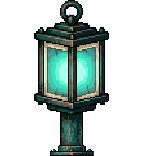
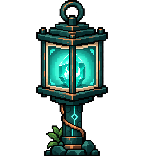
feat(decor): instala 20 decoracoes novas, lanterna refeita e icone prism (REGISTRO §406)
Ruinas (4) e elemento (16) ganham arte em src/assets/decor/<id>.webp pela caixa do
espaco; a lanterna troca a arte no mesmo id; prism.webp 128x128 substitui o emoji.
Instalador tools/instalar-decor-elementos.py reusa o do §398; guard decorElementos.test.ts.

Changed region(s): [[0.2222, 0.0, 0.7778, 1.0]]

diff --git a/src/assets/decorElementos.test.ts b/src/assets/decorElementos.test.ts
@@ -1,0 +1,97 @@
+/**
+ * As 20 decorações sem arte (4 ruínas + 16 de elemento), a lanterna refeita e o ícone `prism`
+ * (REGISTRO §406, P9 opção (a)). Guard do que tools/instalar-decor-elementos.py promete.
+ */
+import { describe, it, expect } from 'vitest';
+import fs from 'node:fs';
+import path from 'node:path';
+import sharp from 'sharp';
+import { COSMETICOS_PLANEJADOS, COSMETICOS_NOVOS, DECOR_ART_SCALE } from '../utils/cosmeticosNovos';
+import { DECOR_ART } from '../utils/decorArt';
+import { materialIconSrc } from '../utils/materialIcons';
+import { ALL_SHOP_ITEMS } from '../utils/shop';
+
+const DIR = path.resolve(__dirname, 'decor');
+const NOVAS = [
+  'furn-ruinas-carro-engolido', 'furn-ruinas-placa-torta', 'furn-ruinas-asfalto-rachado', 'furn-ruinas-fiacao-com-musgo',
+  ...['sombra', 'luz', 'vileza', 'morte', 'vida', 'vigor', 'marcial', 'tempo', 'som', 'gravidade', 'espaco', 'fada', 'industrial', 'planta', 'arcano', 'eletricidade']
+    .map(e => `furn-el-${e}`),
+];
+const kb = (f: string) => fs.statSync(f).size;
+
+describe('20 decorações novas, lanterna refeita e prism', () => {
+  it('são 20 ids únicos, cada um peça do catálogo planejado, com arte registrada em DECOR_ART', () => {
+    expect(new Set(NOVAS).size).toBe(20);
+    for (const id of NOVAS) {
+      const c = COSMETICOS_PLANEJADOS.find(p => p.id === id);
+      expect(c, id).toBeDefined();
+      expect(c!.kind, id).toBe('furn');
+      expect(COSMETICOS_NOVOS.some(p => p.id === id), `${id} entra na loja`).toBe(true);
+      expect(DECOR_ART[id], id).toBeTruthy();
+    }
+  });
+
+  it('cada peça é a caixa do espaço × escala (3; 2 no tapete), com alfa real e teto de bytes', async () => {
+    let total = 0;
+    for (const id of NOVAS) {
+      const c = COSMETICOS_PLANEJADOS.find(p => p.id === id)!;
+      const arq = path.join(DIR, `${id}.webp`);
+      const m = await sharp(arq).metadata();
+      const k = DECOR_ART_SCALE(c.slot!);
+      expect([m.format, m.width, m.height], id).toEqual(['webp', c.box!.w * k, c.box!.h * k]);
+      expect(m.hasAlpha, id).toBe(true);
+      const a = (await sharp(arq).stats()).channels[3];
+      expect(a.min, `${id}: sem pixel transparente`).toBe(0);
+      expect(a.max, `${id}: sem pixel opaco`).toBeGreaterThan(200);
+      expect(kb(arq), id).toBeLessThanOrEqual(60 * 1024);
+      total += kb(arq);
+    }
+    expect(total).toBeLessThanOrEqual(700 * 1024); // ~0,43 MB hoje
+  }, 60_000);
+
+  it('slots seguem o código: asfalto é tapete (13:2), fiação é parede, elementos alternam esquerdo/direito', () => {
+    const slot = (id: string) => COSMETICOS_PLANEJADOS.find(p => p.id === id)!.slot;
+    expect(slot('furn-ruinas-asfalto-rachado')).toBe('rug');
+    expect(slot('furn-ruinas-fiacao-com-musgo')).toBe('wall');
+    expect(slot('furn-ruinas-carro-engolido')).toBe('floor-left');
+    expect(slot('furn-ruinas-placa-torta')).toBe('floor-right');
+  });
+
+  it('a lanterna troca a arte no mesmo id: 144×156 (canto direito ×3), PNG com alfa real, mesmo item da loja', async () => {
+    const item = ALL_SHOP_ITEMS.find(i => i.id === 'furn-lantern')!;
+    expect([item.slot, item.price]).toEqual(['floor-right', 330]);
+    const arq = path.join(DIR, 'furn-lantern.png');
+    const m = await sharp(arq).metadata();
+    expect([m.width, m.height, m.hasAlpha]).toEqual([144, 156, true]);
+    expect((await sharp(arq).stats()).channels[3].min).toBe(0);
+    expect(kb(arq)).toBeLessThanOrEqual(400 * 1024);
+    expect(DECOR_ART['furn-lantern']).toBeTruthy();
+  });
+
+  it('nenhum furn-*.webp órfão: todo arquivo é peça do catálogo planejado', () => {
+    const ids = new Set(COSMETICOS_PLANEJADOS.map(c => c.id));
+    const orfas = fs.readdirSync(DIR).filter(f => /^furn-.*\.webp$/.test(f)).map(f => f.slice(0, -5)).filter(id => !ids.has(id));
+    expect(orfas).toEqual([]);
+  });
+
+  it('o catálogo planejado segue com os mesmos 108 ids (nenhum preço, slot ou id inventado)', () => {
+    expect(COSMETICOS_PLANEJADOS).toHaveLength(108);
+    expect(COSMETICOS_PLANEJADOS.filter(c => c.kind === 'furn')).toHaveLength(44);
+    expect(COSMETICOS_PLANEJADOS.find(c => c.id === 'furn-el-luz')!.price).toBe(500);
+  });
+
+  it('prism: 128×128 com alfa real e o material resolve a imagem em vez do emoji', async () => {
+    const arq = path.resolve(__dirname, 'soulmon/icons/materiais/prism.webp');
+    const m = await sharp(arq).metadata();
+    expect([m.format, m.width, m.height, m.hasAlpha]).toEqual(['webp', 128, 128, true]);
+    expect(kb(arq)).toBeLessThanOrEqual(30 * 1024);
+    expect(materialIconSrc('prism')).toBeTruthy();
+  });
+
+  it('o instalador é idempotente: lê só o PNG canônico da origem, nunca o arquivo já instalado', () => {
+    const f = fs.readFileSync(path.resolve(__dirname, '../../tools/instalar-decor-elementos.py'), 'utf8');
+    expect(f).toContain("os.path.join(origem, id_ + '.png')");
+    expect(f).toMatch(/PNG canônico/);
+    expect(f).not.toMatch(/Image\.open\(out\)/);
+  });
+});

diff --git a/tools/instalar-decor-elementos.py b/tools/instalar-decor-elementos.py
@@ -1,0 +1,109 @@
+"""Instala as 20 decorações sem arte (4 ruínas + 16 de elemento), a lanterna refeita e o ícone `prism`.
+
+Uso:  python tools/instalar-decor-elementos.py [ORIGEM] [--contato ARQ.png] [--antes DIR]
+  ORIGEM  padrão E:/Soulmon-assets/_lote-15-11/chatgpt-fila  (<id>.png, alfa real, 1254²)
+
+Reusa `instalar()` de tools/instalar-decor-refeitas.py (caixa do espaço × escala, NEAREST, bbox do alfa,
+`contain`, âncora embaixo no chão e centro na parede/tapete, faixa 3:1 -> 13:2 por janela de maior alfa).
+A caixa de cada id vem de `utils/cosmeticosNovos.ts` (SLOT_FURN) e a escala de `DECOR_ART_SCALE`
+(3, e 2 no tapete); o espaço de cada id é lido do código, não repetido aqui:
+  - decoração nova  -> src/assets/decor/<id>.webp (sem perda; o glob de `cosmeticosNovos.ts` lê .webp)
+  - lanterna        -> src/assets/decor/furn-lantern.png (mesmo id e formato; `decorArt.ts` importa o PNG)
+  - prism           -> src/assets/soulmon/icons/materiais/prism.webp (128x128; `materialIcons.ts` troca o emoji)
+Idempotente: a fonte é SEMPRE o PNG canônico da origem, nunca o arquivo já instalado.
+"""
+import sys, os, re, importlib.util
+from PIL import Image
+
+AQUI = os.path.dirname(os.path.abspath(__file__))
+RAIZ = os.path.dirname(AQUI)
+spec = importlib.util.spec_from_file_location('refeitas', os.path.join(AQUI, 'instalar-decor-refeitas.py'))
+refeitas = importlib.util.module_from_spec(spec)
+spec.loader.exec_module(refeitas)
+
+LANTERNA = 'E:/Soulmon-assets/_lote-14-11/decoracao/furn-lantern.png'
+CAIXAS = {'floor-left': (56, 56), 'floor-right': (48, 52), 'rug': (104, 16), 'wall': (56, 40)}
+
+
+def ler_slots():
+    """id -> espaço, na ordem em que `cosmeticosNovos.ts` os monta (4 por tema; elementos alternam esquerdo/direito)."""
+    src = open(os.path.join(RAIZ, 'src/utils/cosmeticosNovos.ts'), encoding='utf-8').read()
+    nomes = re.search(r'const NOMES_FURN[^{]*\{(.*?)\n\};', src, re.S).group(1)
+    ids = re.findall(r"'(furn-[a-z0-9-]+)':", nomes)
+    elem = re.search(r'const ELEMENTOS[^{]*\{(.*?)\n\};', src, re.S).group(1)
+    els = re.findall(r'(\w+): \[', elem)
+    slots = {}
+    temas = {}
+    for i in ids:
+        if i.startswith('furn-el-'):
+            continue
+        temas.setdefault(i.split('-')[1], []).append(i)
+    for lista in temas.values():
+        for n, i in enumerate(lista[:4]):
+            slots[i] = ['floor-left', 'floor-right', 'rug', 'wall'][n]
+    for n, el in enumerate(els):
+        slots[f'furn-el-{el}'] = 'floor-left' if n % 2 == 0 else 'floor-right'
+    return slots
+
+
+def escala(slot):
+    return 2 if slot == 'rug' else 3
+
+
+def instalar_slot(src, slot):
+    k = refeitas.K
+    refeitas.K = escala(slot)
+    try:
+        return refeitas.instalar(src, slot, slot != 'rug' and slot != 'wall')
+    finally:
+        refeitas.K = k
+
+
+def main():
+    argv = sys.argv[1:]
+    opt = {}
+    for k in ('--contato', '--antes'):
+        if k in argv:
+            i = argv.index(k); opt[k] = argv[i + 1]; del argv[i:i + 2]
+    origem = argv[0] if argv else 'E:/Soulmon-assets/_lote-15-11/chatgpt-fila'
+    dec = os.path.join(RAIZ, 'src/assets/decor')
+    refeitas.SLOTS.update(CAIXAS)
+    ja = {f[:-5] for f in os.listdir(dec) if f.endswith('.webp')}
+    feitos, total, maior = [], 0, 0
+    for id_, slot in ler_slots().items():
+        if id_ in ja:
+            continue  # peça que já tem arte instalada não é tocada aqui
+        src = os.path.join(origem, id_ + '.png')
+        if not os.path.exists(src):
+            raise SystemExit(f'faltando: {src}')
+        tela = instalar_slot(src, slot)
+        out = os.path.join(dec, id_ + '.webp')
+        tela.save(out, 'WEBP', lossless=True, method=6)
+        tam = os.path.getsize(out)
+        total += tam; maior = max(maior, tam)
+        feitos.append((id_, tela))
+    print(f'decoracoes novas: {len(feitos)} em {dec}; {total/1024:.1f} KB; maior {maior/1024:.1f} KB')
+    lant = instalar_slot(LANTERNA, 'floor-right')
+    out = os.path.join(dec, 'furn-lantern.png')
+    lant.save(out, 'PNG', optimize=True)
+    print(f'lanterna: {os.path.getsize(out)/1024:.1f} KB')
+    feitos.append(('furn-lantern', lant))
+    icone = Image.open(os.path.join(origem, 'prism.png')).convert('RGBA')
+    icone = icone.crop(refeitas.bbox_alfa(icone))
+    lado = max(icone.size)
+    quad = Image.new('RGBA', (lado, lado), (0, 0, 0, 0))
+    quad.paste(icone, ((lado - icone.width) // 2, (lado - icone.height) // 2))
+    # margem de 5 px como os outros ícones de material (ore: caixa 5..122)
+    quad = quad.resize((118, 118), Image.LANCZOS)
+    tela = Image.new('RGBA', (128, 128), (0, 0, 0, 0))
+    tela.paste(quad, (5, 5))
+    quad = tela
+    out = os.path.join(RAIZ, 'src/assets/soulmon/icons/materiais/prism.webp')
+    quad.save(out, 'WEBP', quality=90, method=6)
+    print(f'prism: {os.path.getsize(out)/1024:.1f} KB')
+    if '--contato' in opt:
+        refeitas.contato(feitos, opt.get('--antes'), opt['--contato'])
+
+
+if __name__ == '__main__':
+    main()

diff --git a/tools/instalar-decor-refeitas.py b/tools/instalar-decor-refeitas.py
@@ -137,4 +137,5 @@ def main():
         contato(feitos, opt.get('--antes'), opt['--contato'])
 
 
-main()
+if __name__ == '__main__':
+    main()

diff --git a/docs/ASSETS-A-GERAR.md b/docs/ASSETS-A-GERAR.md
@@ -55,7 +55,7 @@ O baú da sessão de foco (`FocusBag`, com tooltip e animação de itens) mostra
 |---|---|---|---|
 | ✅ 13/11 `spark` | `src/assets/soulmon/icons/materiais/spark.webp` | Faísca | `Game item icon, a small bright four-point spark of electric yellow light, centered on a transparent background, soft dark outline, subtle highlights, hand-painted pixel-friendly style matching the other item icons of the game, at most one small discreet motif of a turquoise crystal or copper wire, no text, no decorative cog, square 1:1` |
 | ✅ 13/11 `moss` | `src/assets/soulmon/icons/materiais/moss.webp` | Musgo | `Game item icon, a tuft of soft green moss with tiny curled fronds, centered on a transparent background, soft dark outline, subtle highlights, hand-painted pixel-friendly style matching the other item icons of the game, at most one small discreet motif of a turquoise crystal or copper wire, no text, no decorative cog, square 1:1` |
-| ⏳ pendente: refazer `prism` (13/11: o instalado era um pilar de cristal com tampas de cobre, não um prisma; REPROVADO e retirado, cai no emoji) | `src/assets/soulmon/icons/materiais/prism.webp` | Prisma | `Game item icon, a faceted triangular prism crystal catching a rainbow edge of light, centered on a transparent background, soft dark outline, subtle highlights, hand-painted pixel-friendly style matching the other item icons of the game, at most one small discreet motif of a turquoise crystal or copper wire, no text, no decorative cog, square 1:1` |
+| ✅ 15/11 `prism` refeito e instalado (REGISTRO §406; 13/11: o antigo era um pilar de cristal com tampas de cobre, não um prisma) | `src/assets/soulmon/icons/materiais/prism.webp` | Prisma | `Game item icon, a faceted triangular prism crystal catching a rainbow edge of light, centered on a transparent background, soft dark outline, subtle highlights, hand-painted pixel-friendly style matching the other item icons of the game, at most one small discreet motif of a turquoise crystal or copper wire, no text, no decorative cog, square 1:1` |
 | ✅ 13/11 `pebble` | `src/assets/soulmon/icons/materiais/pebble.webp` | Seixo | `Game item icon, a smooth rounded river pebble, grey-blue with a pale vein, centered on a transparent background, soft dark outline, subtle highlights, hand-painted pixel-friendly style matching the other item icons of the game, at most one small discreet motif of a turquoise crystal or copper wire, no text, no decorative cog, square 1:1` |
 | ✅ 13/11 `ore` | `src/assets/soulmon/icons/materiais/ore.webp` | Minério | `Game item icon, a rough chunk of ore rock with a seam of teal metal, centered on a transparent background, soft dark outline, subtle highlights, hand-painted pixel-friendly style matching the other item icons of the game, at most one small discreet motif of a turquoise crystal or copper wire, no text, no decorative cog, square 1:1` |
 | ✅ 13/11 `ink` | `src/assets/soulmon/icons/materiais/ink.webp` | Tinta | `Game item icon, a small glass inkwell with a dark blue ink drop and a quill tip, centered on a transparent background, soft dark outline, subtle highlights, hand-painted pixel-friendly style matching the other item icons of the game, at most one small discreet motif of a turquoise crystal or copper wire, no text, no decorative cog, square 1:1` |
@@ -914,10 +914,10 @@ O slot já está ligado (`FEIRA_SCENE` em `src/utils/dungeonScenes.ts`, glob opc
 | `bg-ruinas-metro-esquecido` | bg | Ruínas pós-apocalípticas | abandoned subway hall flooded and full of moss and glowing fungi, light through a broken ceiling; palette: rust orange, faded olive, dust beige and toxic lime accent | 1200×648 (1,85:1), [PET-BOX] | não |
 | `frame-ruinas-concreto-e-vergalhao` | frame | Ruínas pós-apocalípticas | ring of broken concrete and rusted rebar with moss; palette: rust orange, faded olive, dust beige and toxic lime accent | 192×192 (1:1), abertura central 96 px vazia, alfa real | não |
 | `frame-ruinas-sucata-florida` | frame | Ruínas pós-apocalípticas | ring of rusted scrap reclaimed by small flowers; palette: rust orange, faded olive, dust beige and toxic lime accent | 192×192 (1:1), abertura central 96 px vazia, alfa real | não |
-| `furn-ruinas-carro-engolido` | furniture | Ruínas pós-apocalípticas | rusted small car overtaken by moss and flowers; palette: rust orange, faded olive, dust beige and toxic lime accent | 56×56 (1:1), `ground`, slot `floor-left` | não |
-| `furn-ruinas-placa-torta` | furniture | Ruínas pós-apocalípticas | bent faded road sign with vines (no readable text); palette: rust orange, faded olive, dust beige and toxic lime accent | 48×52 (~1:1), `ground`, slot `floor-right` | não |
-| `furn-ruinas-asfalto-rachado` | furniture | Ruínas pós-apocalípticas | cracked asphalt patch with grass in the cracks, shallow perspective; palette: rust orange, faded olive, dust beige and toxic lime accent | 104×16 (6,5:1), `ground-flat`, slot `rug` | não |
-| `furn-ruinas-fiacao-com-musgo` | furniture | Ruínas pós-apocalípticas | hanging old cables draped with moss and small glowing fungi; palette: rust orange, faded olive, dust beige and toxic lime accent | 56×40 (1,4:1), `hang`, slot `wall` | não |
+| ✅ 15/11 `furn-ruinas-carro-engolido` | furniture | Ruínas pós-apocalípticas | rusted small car overtaken by moss and flowers; palette: rust orange, faded olive, dust beige and toxic lime accent | 56×56 (1:1), `ground`, slot `floor-left` | não |
+| ✅ 15/11 `furn-ruinas-placa-torta` | furniture | Ruínas pós-apocalípticas | bent faded road sign with vines (no readable text); palette: rust orange, faded olive, dust beige and toxic lime accent | 48×52 (~1:1), `ground`, slot `floor-right` | não |
+| ✅ 15/11 `furn-ruinas-asfalto-rachado` | furniture | Ruínas pós-apocalípticas | cracked asphalt patch with grass in the cracks, shallow perspective; palette: rust orange, faded olive, dust beige and toxic lime accent | 104×16 (6,5:1), `ground-flat`, slot `rug` | não |
+| ✅ 15/11 `furn-ruinas-fiacao-com-musgo` | furniture | Ruínas pós-apocalípticas | hanging old cables draped with moss and small glowing fungi; palette: rust orange, faded olive, dust beige and toxic lime accent | 56×40 (1,4:1), `hang`, slot `wall` | não |
 | `bg-el-fogo` | bg | Elemento Fogo | forge of living flame in a stone hollow; palette: flame orange-red | 1200×648 (1,85:1), [PET-BOX] | **sim** (`fogo`) |
 | `frame-el-fogo` | frame | Elemento Fogo | ring of licking flames; palette: flame orange-red | 192×192 (1:1), abertura central 96 px vazia, alfa real | **sim** (`fogo`) |
 | `furn-el-fogo` | furniture | Elemento Fogo | small eternal-flame brazier of carved stone; palette: flame orange-red | 56×56 (1:1), `ground`, slot `floor-left` | **sim** (`fogo`) |
@@ -932,52 +932,52 @@ O slot já está ligado (`FEIRA_SCENE` em `src/utils/dungeonScenes.ts`, glob opc
 | `furn-el-ar` | furniture | Elemento Ar | small pinwheel of feathers on a stone post; palette: pale sky blue and white | 48×52 (~1:1), `ground`, slot `floor-right` | **sim** (`ar`) |
 | `bg-el-eletricidade` | bg | Elemento Eletricidade | storm plateau with lightning between crystal spires; palette: vivid yellow and white-violet | 1200×648 (1,85:1), [PET-BOX] | **sim** (`eletricidade`) |
 | `frame-el-eletricidade` | frame | Elemento Eletricidade | ring of crackling yellow arcs; palette: vivid yellow and white-violet | 192×192 (1:1), abertura central 96 px vazia, alfa real | **sim** (`eletricidade`) |
-| `furn-el-eletricidade` | furniture | Elemento Eletricidade | crystal rod catching a tiny lightning bolt; palette: vivid yellow and white-violet | 56×56 (1:1), `ground`, slot `floor-left` | **sim** (`eletricidade`) |
+| ✅ 15/11 `furn-el-eletricidade` | furniture | Elemento Eletricidade | crystal rod catching a tiny lightning bolt; palette: vivid yellow and white-violet | 56×56 (1:1), `ground`, slot `floor-left` | **sim** (`eletricidade`) |
 | `bg-el-arcano` | bg | Elemento Arcano | floating library of runes and orbiting glyphs; palette: royal violet and gold | 1200×648 (1,85:1), [PET-BOX] | **sim** (`arcano`) |
 | `frame-el-arcano` | frame | Elemento Arcano | ring of orbiting violet glyphs; palette: royal violet and gold | 192×192 (1:1), abertura central 96 px vazia, alfa real | **sim** (`arcano`) |
-| `furn-el-arcano` | furniture | Elemento Arcano | floating open grimoire with violet runes; palette: royal violet and gold | 48×52 (~1:1), `ground`, slot `floor-right` | **sim** (`arcano`) |
+| ✅ 15/11 `furn-el-arcano` | furniture | Elemento Arcano | floating open grimoire with violet runes; palette: royal violet and gold | 48×52 (~1:1), `ground`, slot `floor-right` | **sim** (`arcano`) |
 | `bg-el-sombra` | bg | Elemento Sombra | moonless forest of black trees with drifting shadow wisps; palette: ink black and cold grey-blue | 1200×648 (1,85:1), [PET-BOX] | **sim** (`sombra`) |
 | `frame-el-sombra` | frame | Elemento Sombra | ring of curling black smoke; palette: ink black and cold grey-blue | 192×192 (1:1), abertura central 96 px vazia, alfa real | **sim** (`sombra`) |
-| `furn-el-sombra` | furniture | Elemento Sombra | dark mirror on a stand, faint wisps; palette: ink black and cold grey-blue | 56×56 (1:1), `ground`, slot `floor-left` | **sim** (`sombra`) |
+| ✅ 15/11 `furn-el-sombra` | furniture | Elemento Sombra | dark mirror on a stand, faint wisps; palette: ink black and cold grey-blue | 56×56 (1:1), `ground`, slot `floor-left` | **sim** (`sombra`) |
 | `bg-el-luz` | bg | Elemento Luz | sunlit marble sanctuary with shafts of golden light; palette: warm white-gold | 1200×648 (1,85:1), [PET-BOX] | **sim** (`luz`) |
 | `frame-el-luz` | frame | Elemento Luz | ring of golden rays; palette: warm white-gold | 192×192 (1:1), abertura central 96 px vazia, alfa real | **sim** (`luz`) |
-| `furn-el-luz` | furniture | Elemento Luz | small sun-orb on a marble pedestal; palette: warm white-gold | 48×52 (~1:1), `ground`, slot `floor-right` | **sim** (`luz`) |
+| ✅ 15/11 `furn-el-luz` | furniture | Elemento Luz | small sun-orb on a marble pedestal; palette: warm white-gold | 48×52 (~1:1), `ground`, slot `floor-right` | **sim** (`luz`) |
 | `bg-el-vileza` | bg | Elemento Vileza | poisoned marsh with thorny idols, no gore; palette: sickly green and dark magenta | 1200×648 (1,85:1), [PET-BOX] | **sim** (`vileza`) |
 | `frame-el-vileza` | frame | Elemento Vileza | ring of barbed thorns dripping venom; palette: sickly green and dark magenta | 192×192 (1:1), abertura central 96 px vazia, alfa real | **sim** (`vileza`) |
-| `furn-el-vileza` | furniture | Elemento Vileza | cracked goblet with bubbling green venom; palette: sickly green and dark magenta | 56×56 (1:1), `ground`, slot `floor-left` | **sim** (`vileza`) |
+| ✅ 15/11 `furn-el-vileza` | furniture | Elemento Vileza | cracked goblet with bubbling green venom; palette: sickly green and dark magenta | 56×56 (1:1), `ground`, slot `floor-left` | **sim** (`vileza`) |
 | `bg-el-morte` | bg | Elemento Morte | quiet ossuary garden with pale flowers among old stones, no gore; palette: bone white and pale teal | 1200×648 (1,85:1), [PET-BOX] | **sim** (`morte`) |
 | `frame-el-morte` | frame | Elemento Morte | ring of bleached branches and pale moths; palette: bone white and pale teal | 192×192 (1:1), abertura central 96 px vazia, alfa real | **sim** (`morte`) |
-| `furn-el-morte` | furniture | Elemento Morte | weathered gravestone with a pale flower; palette: bone white and pale teal | 48×52 (~1:1), `ground`, slot `floor-right` | **sim** (`morte`) |
+| ✅ 15/11 `furn-el-morte` | furniture | Elemento Morte | weathered gravestone with a pale flower; palette: bone white and pale teal | 48×52 (~1:1), `ground`, slot `floor-right` | **sim** (`morte`) |
 | `bg-el-vida` | bg | Elemento Vida | sacred spring where a great tree blooms; palette: fresh spring green and rose | 1200×648 (1,85:1), [PET-BOX] | **sim** (`vida`) |
 | `frame-el-vida` | frame | Elemento Vida | ring of budding leaves and small hearts of light; palette: fresh spring green and rose | 192×192 (1:1), abertura central 96 px vazia, alfa real | **sim** (`vida`) |
-| `furn-el-vida` | furniture | Elemento Vida | sprouting seed in a glowing cradle of roots; palette: fresh spring green and rose | 56×56 (1:1), `ground`, slot `floor-left` | **sim** (`vida`) |
+| ✅ 15/11 `furn-el-vida` | furniture | Elemento Vida | sprouting seed in a glowing cradle of roots; palette: fresh spring green and rose | 56×56 (1:1), `ground`, slot `floor-left` | **sim** (`vida`) |
 | `bg-el-vigor` | bg | Elemento Vigor | sunrise training ground on a mountain terrace; palette: crimson red and warm amber | 1200×648 (1,85:1), [PET-BOX] | **sim** (`vigor`) |
 | `frame-el-vigor` | frame | Elemento Vigor | ring of braided red cords and amber beads; palette: crimson red and warm amber | 192×192 (1:1), abertura central 96 px vazia, alfa real | **sim** (`vigor`) |
-| `furn-el-vigor` | furniture | Elemento Vigor | heavy stone training weight wrapped in red cord; palette: crimson red and warm amber | 48×52 (~1:1), `ground`, slot `floor-right` | **sim** (`vigor`) |
+| ✅ 15/11 `furn-el-vigor` | furniture | Elemento Vigor | heavy stone training weight wrapped in red cord; palette: crimson red and warm amber | 48×52 (~1:1), `ground`, slot `floor-right` | **sim** (`vigor`) |
 | `bg-el-marcial` | bg | Elemento Marcial | old dojo courtyard with weapon racks and fallen leaves; palette: steel grey and deep red | 1200×648 (1,85:1), [PET-BOX] | **sim** (`marcial`) |
 | `frame-el-marcial` | frame | Elemento Marcial | ring of crossed blades and cord; palette: steel grey and deep red | 192×192 (1:1), abertura central 96 px vazia, alfa real | **sim** (`marcial`) |
-| `furn-el-marcial` | furniture | Elemento Marcial | wooden training dummy with worn wraps; palette: steel grey and deep red | 56×56 (1:1), `ground`, slot `floor-left` | **sim** (`marcial`) |
+| ✅ 15/11 `furn-el-marcial` | furniture | Elemento Marcial | wooden training dummy with worn wraps; palette: steel grey and deep red | 56×56 (1:1), `ground`, slot `floor-left` | **sim** (`marcial`) |
 | `bg-el-tempo` | bg | Elemento Tempo | desert of floating sand and frozen moments under twin moons; palette: sand gold and midnight blue | 1200×648 (1,85:1), [PET-BOX] | **sim** (`tempo`) |
 | `frame-el-tempo` | frame | Elemento Tempo | ring of drifting sand and arcane sundial marks (no gears); palette: sand gold and midnight blue | 192×192 (1:1), abertura central 96 px vazia, alfa real | **sim** (`tempo`) |
-| `furn-el-tempo` | furniture | Elemento Tempo | small sundial of stone with flowing sand; palette: sand gold and midnight blue | 48×52 (~1:1), `ground`, slot `floor-right` | **sim** (`tempo`) |
+| ✅ 15/11 `furn-el-tempo` | furniture | Elemento Tempo | small sundial of stone with flowing sand; palette: sand gold and midnight blue | 48×52 (~1:1), `ground`, slot `floor-right` | **sim** (`tempo`) |
 | `bg-el-som` | bg | Elemento Som | valley of giant resonating crystal pipes and visible sound waves; palette: coral pink and teal | 1200×648 (1,85:1), [PET-BOX] | **sim** (`som`) |
 | `frame-el-som` | frame | Elemento Som | ring of concentric sound waves and notes; palette: coral pink and teal | 192×192 (1:1), abertura central 96 px vazia, alfa real | **sim** (`som`) |
-| `furn-el-som` | furniture | Elemento Som | crystal tuning bell on a stand; palette: coral pink and teal | 56×56 (1:1), `ground`, slot `floor-left` | **sim** (`som`) |
+| ✅ 15/11 `furn-el-som` | furniture | Elemento Som | crystal tuning bell on a stand; palette: coral pink and teal | 56×56 (1:1), `ground`, slot `floor-left` | **sim** (`som`) |
 | `bg-el-gravidade` | bg | Elemento Gravidade | field of levitating boulders bending around a dark sphere; palette: deep purple and graphite | 1200×648 (1,85:1), [PET-BOX] | **sim** (`gravidade`) |
 | `frame-el-gravidade` | frame | Elemento Gravidade | ring of orbiting tiny stones; palette: deep purple and graphite | 192×192 (1:1), abertura central 96 px vazia, alfa real | **sim** (`gravidade`) |
-| `furn-el-gravidade` | furniture | Elemento Gravidade | small floating boulder over a dark orb; palette: deep purple and graphite | 48×52 (~1:1), `ground`, slot `floor-right` | **sim** (`gravidade`) |
+| ✅ 15/11 `furn-el-gravidade` | furniture | Elemento Gravidade | small floating boulder over a dark orb; palette: deep purple and graphite | 48×52 (~1:1), `ground`, slot `floor-right` | **sim** (`gravidade`) |
 | `bg-el-espaco` | bg | Elemento Espaço | cosmic platform among nebulae and planets; palette: cosmic navy and nebula pink | 1200×648 (1,85:1), [PET-BOX] | **sim** (`espaco`) |
 | `frame-el-espaco` | frame | Elemento Espaço | ring of stars and thin orbit lines; palette: cosmic navy and nebula pink | 192×192 (1:1), abertura central 96 px vazia, alfa real | **sim** (`espaco`) |
-| `furn-el-espaco` | furniture | Elemento Espaço | miniature planet with a ring on a pedestal; palette: cosmic navy and nebula pink | 56×56 (1:1), `ground`, slot `floor-left` | **sim** (`espaco`) |
+| ✅ 15/11 `furn-el-espaco` | furniture | Elemento Espaço | miniature planet with a ring on a pedestal; palette: cosmic navy and nebula pink | 56×56 (1:1), `ground`, slot `floor-left` | **sim** (`espaco`) |
 | `bg-el-fada` | bg | Elemento Fada | fairy circle of glowing mushrooms in a twilight glade; palette: lilac, pink and sparkle silver | 1200×648 (1,85:1), [PET-BOX] | **sim** (`fada`) |
 | `frame-el-fada` | frame | Elemento Fada | ring of tiny wings, sparkles and flowers; palette: lilac, pink and sparkle silver | 192×192 (1:1), abertura central 96 px vazia, alfa real | **sim** (`fada`) |
-| `furn-el-fada` | furniture | Elemento Fada | little mushroom house with glowing window; palette: lilac, pink and sparkle silver | 48×52 (~1:1), `ground`, slot `floor-right` | **sim** (`fada`) |
+| ✅ 15/11 `furn-el-fada` | furniture | Elemento Fada | little mushroom house with glowing window; palette: lilac, pink and sparkle silver | 48×52 (~1:1), `ground`, slot `floor-right` | **sim** (`fada`) |
 | `bg-el-industrial` | bg | Elemento Industrial | ancient mossy foundry of copper conduits and crystal, nature growing back, no Victorian steampunk; palette: copper, soot grey and warm furnace orange | 1200×648 (1,85:1), [PET-BOX] | **sim** (`industrial`) |
 | `frame-el-industrial` | frame | Elemento Industrial | ring of aged copper plates with moss; palette: copper, soot grey and warm furnace orange | 192×192 (1:1), abertura central 96 px vazia, alfa real | **sim** (`industrial`) |
-| `furn-el-industrial` | furniture | Elemento Industrial | old copper automaton head overgrown with moss; palette: copper, soot grey and warm furnace orange | 56×56 (1:1), `ground`, slot `floor-left` | **sim** (`industrial`) |
+| ✅ 15/11 `furn-el-industrial` | furniture | Elemento Industrial | old copper automaton head overgrown with moss; palette: copper, soot grey and warm furnace orange | 56×56 (1:1), `ground`, slot `floor-left` | **sim** (`industrial`) |
 | `bg-el-planta` | bg | Elemento Planta | jungle canopy with giant leaves and shafts of green light; palette: leaf green and sap yellow | 1200×648 (1,85:1), [PET-BOX] | **sim** (`planta`) |
 | `frame-el-planta` | frame | Elemento Planta | ring of broad leaves and vines; palette: leaf green and sap yellow | 192×192 (1:1), abertura central 96 px vazia, alfa real | **sim** (`planta`) |
-| `furn-el-planta` | furniture | Elemento Planta | calm carnivorous plant in a clay pot; palette: leaf green and sap yellow | 48×52 (~1:1), `ground`, slot `floor-right` | **sim** (`planta`) |
+| ✅ 15/11 `furn-el-planta` | furniture | Elemento Planta | calm carnivorous plant in a clay pot; palette: leaf green and sap yellow | 48×52 (~1:1), `ground`, slot `floor-right` | **sim** (`planta`) |
 
 ## Barra do Especial da Chuva de Almas (pedido do dono, 04/11/2026)
 

diff --git a/docs/REGISTRO-DE-DECISOES.md b/docs/REGISTRO-DE-DECISOES.md
@@ -5793,3 +5793,15 @@ Menor distância média no tabuleiro (ANTES, final): ΔE 26,9 e 27,0; paleta 13,
 **Decisão:** a chave nasce no toque e fica congelada no cristal (`EvolutionCrystal.key`, aditivo e higienizado em `sanitizeCrystal`; `startCrystalFrozen`, `crystalSpriteKey`). Defesa no servidor para cliente antigo em cache: `generate-sprite.js` devolve a forma-base desenhada há menos de 20 min quando recebe `forma@elemento` sem `regenerate`, com `cached: true`, sem IA e sem cota. `regenerate`/Gerar de novo nunca são engolidos.
 
 **Alternativa que perdeu:** ignorar no cliente o sprite criado depois de `crystal.since` (sem campo novo): depende de relógio entre aparelhos e pode pular a arte nova. **Custo aceito:** cristal em voo no deploy (sem `key`) ainda recalcula e pode gerar a 2ª uma vez; e, com cliente antigo, a alternativa sai como cópia da base (sem cobrança). **Gatilho de revisão:** nova ocasião de geração, ou mudança em `altSpriteKey`/`registrarFormaAoEvoluir`: o teste `useSpriteGeneration.cristalUmaImagem.test.tsx` deve seguir contando 1 pedido por evolução.
+
+## §406 — As 20 decorações sem arte, a lanterna refeita e o ícone `prism` entram (15/11/2026, P9 opção (a) do dono de 14/11)
+
+**Decisão:** instalar a arte do ChatGPT das decorações que existiam no catálogo (`src/utils/cosmeticosNovos.ts`) só como id, sem imagem: as 4 de Ruínas (carro engolido, placa torta, asfalto rachado, fiação com musgo) e 16 de elemento (arcano, eletricidade, espaço, fada, gravidade, industrial, luz, marcial, morte, planta, som, sombra, tempo, vida, vigor, vileza). Ids, nomes, espaços e preços são os que já estavam no código; nada foi inventado. Instalador `tools/instalar-decor-elementos.py`, que reusa `instalar()` do instalador do §398 (caixa do espaço × `DECOR_ART_SCALE`: 3, e 2 no tapete; NEAREST; alfa real; âncora embaixo no chão, centro na parede e no tapete). O asfalto veio 3:1 e virou 13:2 pela janela de maior alfa. Saída `src/assets/decor/<id>.webp` sem perda (o glob de `cosmeticosNovos.ts` lê `.webp`; por isso `decorArt.ts` não mudou). A **lanterna** (`furn-lantern`, canto direito, 330 Bits) troca a arte no mesmo id e formato PNG (144×156). O ícone de material **`prism`** (reprovado em 13/11, caía no emoji) entra em `src/assets/soulmon/icons/materiais/prism.webp` (128×128); `materialIcons.ts` já o resolve.
+
+**Contagem:** o plano diz "4 ruínas + 16 de elemento"; as 4 de elemento que já tinham arte antiga (`fogo`, `agua`, `terra`, `ar`) NÃO foram tocadas (o instalador pula quem já tem `.webp`). Existem PNG novos delas na fila; trocá-las é decisão do dono (rodar o script apagando o `.webp` antigo).
+
+**Alternativa que perdeu:** PNG como as 33 do §398 (o glob exige `.webp`; mudar o glob mexe em código e nos 16 temas já instalados).
+
+**Compatibilidade e bytes (medidos nos arquivos, sem build):** nenhum id novo, renomeado ou preço mudado; nenhum campo de save; as 20 peças passam a aparecer na loja (a arte é a porta). `src/assets/decor`: 1.735.231 B antes, 2.191.315 B depois (+445 KB); 20 webp somam 444,6 KB (maior 28,6 KB), lanterna 17,1 → 17,5 KB, `prism.webp` 6,6 KB (`materiais/`: 241.014 → 247.774 B). Guard `src/assets/decorElementos.test.ts` (existência, caixa, alfa real, tetos de 60 KB por arquivo e 700 KB do conjunto, ids do catálogo, órfã, prism resolvido, instalador idempotente).
+
+**Riscos aceitos / depende do dono:** nada visto em tela (sem build), só a prancha `E:/Soulmon-assets/_lote-15-11/chatgpt-fila/instalado-contato.png`. O `prism` não tem o contorno escuro dos outros ícones de material (ore tem), a olho destoa levemente. Preço das 16 de elemento é o do código (500 Bits, exclusivas de elemento por `elementExclusive.ts`). **Gatilho de revisão:** peça ilegível no palco, reinstalar só aquela com o script.

diff --git a/docs/PALCO-E-DECORACAO.md b/docs/PALCO-E-DECORACAO.md
@@ -313,3 +313,7 @@ A caixa de `DECOR_SLOTS` segue sendo o contrato da arte. O palco desenha maior v
 ## Decoração no estilo novo (15/11/2026, REGISTRO §398)
 
 As 33 peças do acervo foram refeitas e entram no MESMO id (`src/assets/decor/<id>.png`, caixa do espaço × 3, alfa real). Instalador: `tools/instalar-decor-refeitas.py` (fonte sempre o PNG canônico em `E:/Soulmon-assets/_lote-14-11/decoracao/`; rodar duas vezes grava os mesmos bytes). Para trocar uma peça de novo, substitua o PNG de origem e rode o script. O tapete (13:2) recebe a janela de maior alfa; grass e sand ancoram embaixo. A lanterna (`furn-lantern`) segue com a arte antiga até o PNG do piloto aparecer na pasta do lote. Guard: `src/assets/decorEstiloNovo.test.ts`.
+
+## As 20 decorações novas e a lanterna (15/11/2026, REGISTRO §406)
+
+Ruínas (4) e elemento (16) deixaram de ser só id: `src/assets/decor/<id>.webp` (sem perda, caixa × 3; tapete × 2 = 208×32, como os demais `.webp`). Instalador `tools/instalar-decor-elementos.py` (fonte sempre o PNG canônico em `E:/Soulmon-assets/_lote-15-11/chatgpt-fila/`; idempotente; não toca quem já tem `.webp`). Ancoragem: chão embaixo, parede e tapete no centro; o asfalto 3:1 é recortado para 13:2. A lanterna (`furn-lantern`) troca a arte no mesmo id (PNG 144×156). Guard: `src/assets/decorElementos.test.ts`.

diff --git a/docs/STATUS.md b/docs/STATUS.md
@@ -1,5 +1,10 @@
 # Status do Soulmon — registro vivo
 
+> ## 15/11/2026 — 20 decorações novas + lanterna + `prism` instalados (`feat/decor-novas-20`, REGISTRO §406) — branch pushada, SEM PR
+>
+> - **Feito:** 4 de Ruínas + 16 de elemento (`src/assets/decor/<id>.webp`, preços e espaços do código), lanterna refeita no mesmo id, `prism.webp` 128×128. Instalador `tools/instalar-decor-elementos.py`; guard `decorElementos.test.ts`. 20 webp = 444,6 KB.
+> - **Depende do dono:** aprovar em modal (PR); trocar ou não a arte antiga de fogo/água/terra/ar (PNG novos prontos); `prism` sem contorno escuro. Sem build, não visto em tela.
+
 > ## 15/11/2026 — Evolução gerava DUAS imagens (`fix/evolucao-uma-imagem`, REGISTRO §404) — PR aberto, NÃO mergeado
 >
 > - **Causa:** a chave de acervo da forma-destino do cristal (`altSpriteKey`) dependia do acervo vivo; a própria imagem recém-chegada (`champion-power`) a trocava para `champion-power@elemento` e o lote partia de novo. Valia para toda ida a champion/ultimate/mega/ultra.
